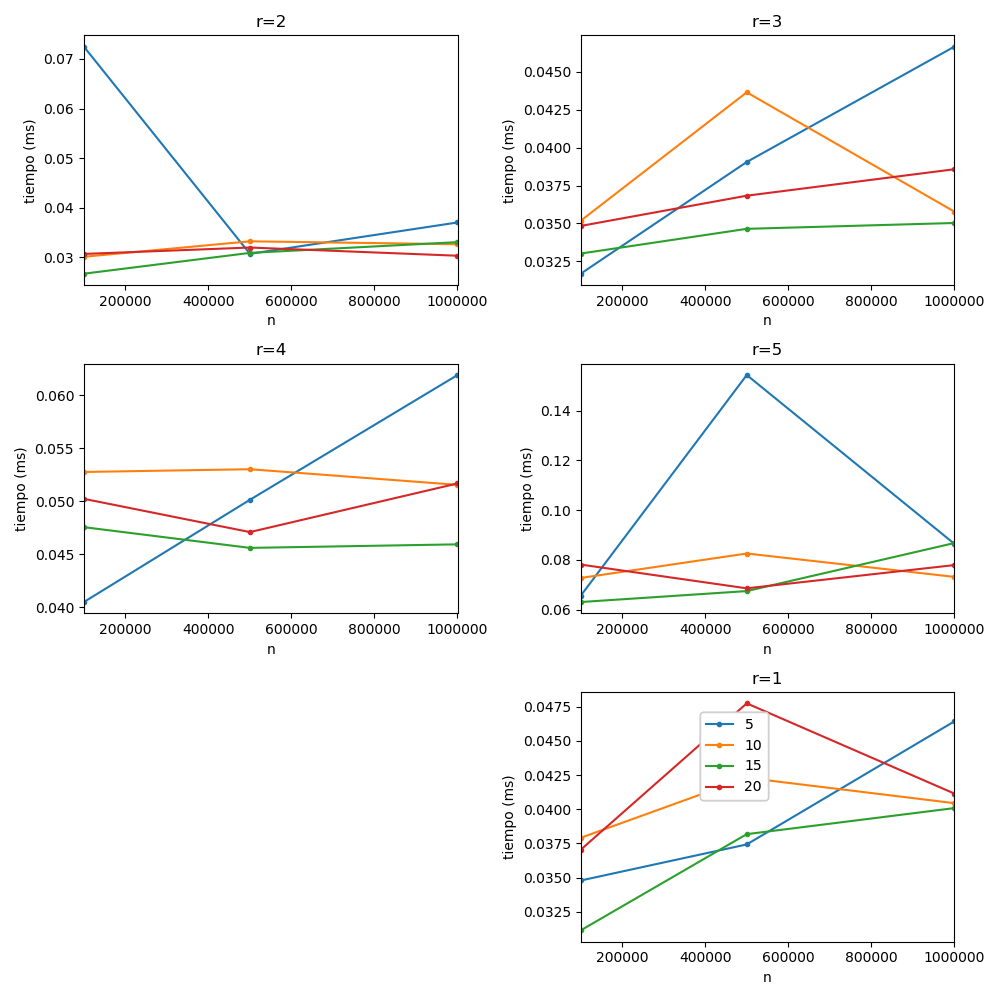
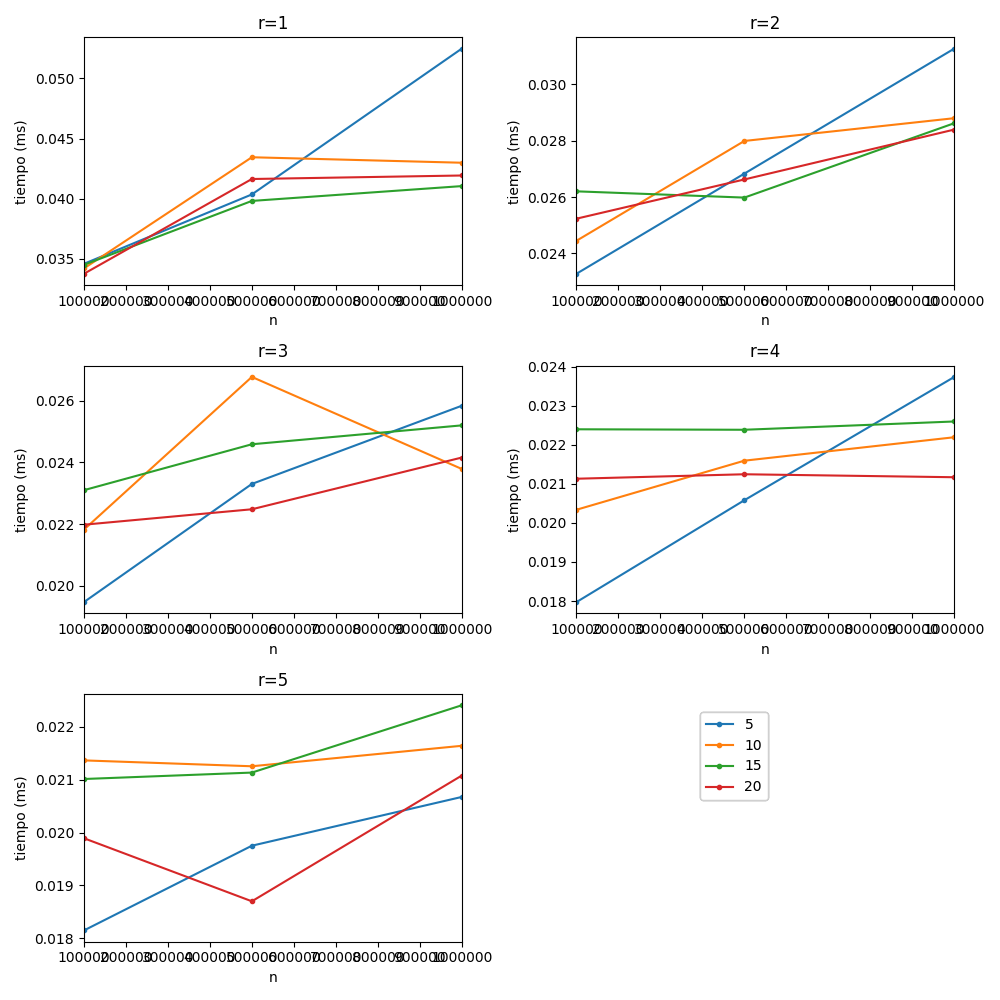
Genera mas graficas

diff --git a/analisis.py b/analisis.py
@@ -24,10 +24,9 @@ if __name__ == '__main__':
 
 
     fig = plt.figure(figsize=(10,10))
-
     # Tiempo buscar positivo vs k
     for i, r in enumerate(range(1, 5+1)):
-        ax = fig.add_subplot(f'32{i}')
+        ax = fig.add_subplot(f'32{i+1}')
         (
             df_buscar_pos_kdr[df_buscar_pos_kdr['r'] == r]
             .groupby(['k', 'n'], as_index=False)['tiempo']
@@ -45,59 +44,24 @@ if __name__ == '__main__':
     fig.tight_layout()
     plt.savefig(f'informe/img/buscar_pos_n.png')
 
-    # for n in [10**5, 5 * 10**5, 10**6]:
-    #     (
-    #         df_buscar_pos_kdr[df_buscar_pos_kdr['n'] == n]
-    #         .groupby(['k', 'r'], as_index=False)['tiempo']
-    #         .mean()
-    #         .pivot(index='k', columns='r', values='tiempo')
-    #         .plot(style='.-')
-    #     )
-    #     plt.savefig(f'fig/buscar_pos_k_n{n}.png')
+    fig = plt.figure(figsize=(10,10))
+    # Tiempo buscar positivo vs k
+    for i, r in enumerate(range(1, 5+1)):
+        ax = fig.add_subplot(f'32{i+1}')
+        (
+            df_buscar_neg_kdr[df_buscar_neg_kdr['r'] == r]
+            .groupby(['k', 'n'], as_index=False)['tiempo']
+            .mean()
+            .pivot(index='n', columns='k', values='tiempo')
+            .plot(style='.-', ax=ax)
+        )
+        # ax.set_xlim([4,21])
+        ax.set_ylabel('tiempo (ms)')
+        ax.margins(.05)
+        ax.title.set_text(f'r={r}')
+        ax.get_legend().remove()
+        handles, labels = ax.get_legend_handles_labels()
+        fig.legend(handles, labels, loc=(0.7, 0.2))
+    fig.tight_layout()
+    plt.savefig(f'informe/img/buscar_neg_n.png')
 
-
-
-    # (
-    #     df_buscar_pos_kdr
-    #     .groupby(['k'], as_index=False)
-    #     .mean()
-    #     .plot(x='k', y='tiempo', label='kdr', ax=ax)
-    # )
-    # (
-    #     df_buscar_pos_kd
-    #     .groupby(['k'], as_index=False)
-    #     .mean()
-    #     .plot(x='k', y='tiempo', ax=ax, label='kd')
-    # )
-    # TODO: Agrupar para cada valor de k, n y r
-
-    # Tiempo buscar positivo vs r
-    # (
-    #     df_buscar_pos_kdr
-    #     .groupby(['r'], as_index=False)
-    #     .mean()
-    #     .plot(x='r', y='tiempo')
-    # )
-    # (
-    #     df_buscar_pos_kd
-    #     .groupby(['r'], as_index=False)
-    #     .mean()
-    #     .plot(x='r', y='tiempo')
-    # )
-
-    # # Tiempo buscar positivo vs n
-    # (
-    #     df_buscar_pos_kdr
-    #     .groupby(['n'], as_index=False)
-    #     .mean()
-    #     .plot(x='n', y='tiempo')
-    # )
-    # (
-    #     df_buscar_pos_kd
-    #     .groupby(['n'], as_index=False)
-    #     .mean()
-    #     .plot(x='n', y='tiempo')
-    # )
-
-    # plot
-    # plt.show()

diff --git a/informe/chapters/analisis.tex b/informe/chapters/analisis.tex
@@ -2,19 +2,21 @@
 
 \begin{figure}
   \begin{center}
-  \includegraphics[width=.7\textwidth]{buscar_pos_k}
+  \includegraphics[width=.7\textwidth]{buscar_pos_n}
   \caption{Tiempo de búsqueda (positiva)
-    según k, para distintos valores de r y n.}
-  \label{fig:buscar-pos-segun-k}
+    según n, para distintos valores de r y k.}
+  \label{fig:buscar-pos-segun-n}
   \end{center}
 \end{figure}
 
 
 \begin{figure}
   \begin{center}
-  \includegraphics[width=.7\textwidth]{buscar_pos_n}
-  \caption{Tiempo de búsqueda (positiva)
+  \includegraphics[width=.7\textwidth]{buscar_neg_n}
+  \caption{Tiempo de búsqueda (negativa)
     según n, para distintos valores de r y k.}
-  \label{fig:buscar-pos-segun-k}
+  \label{fig:buscar-neg-segun-n}
   \end{center}
 \end{figure}
+
+% TODO: Para algun r, algun k comparar arbol kdr vs kd
